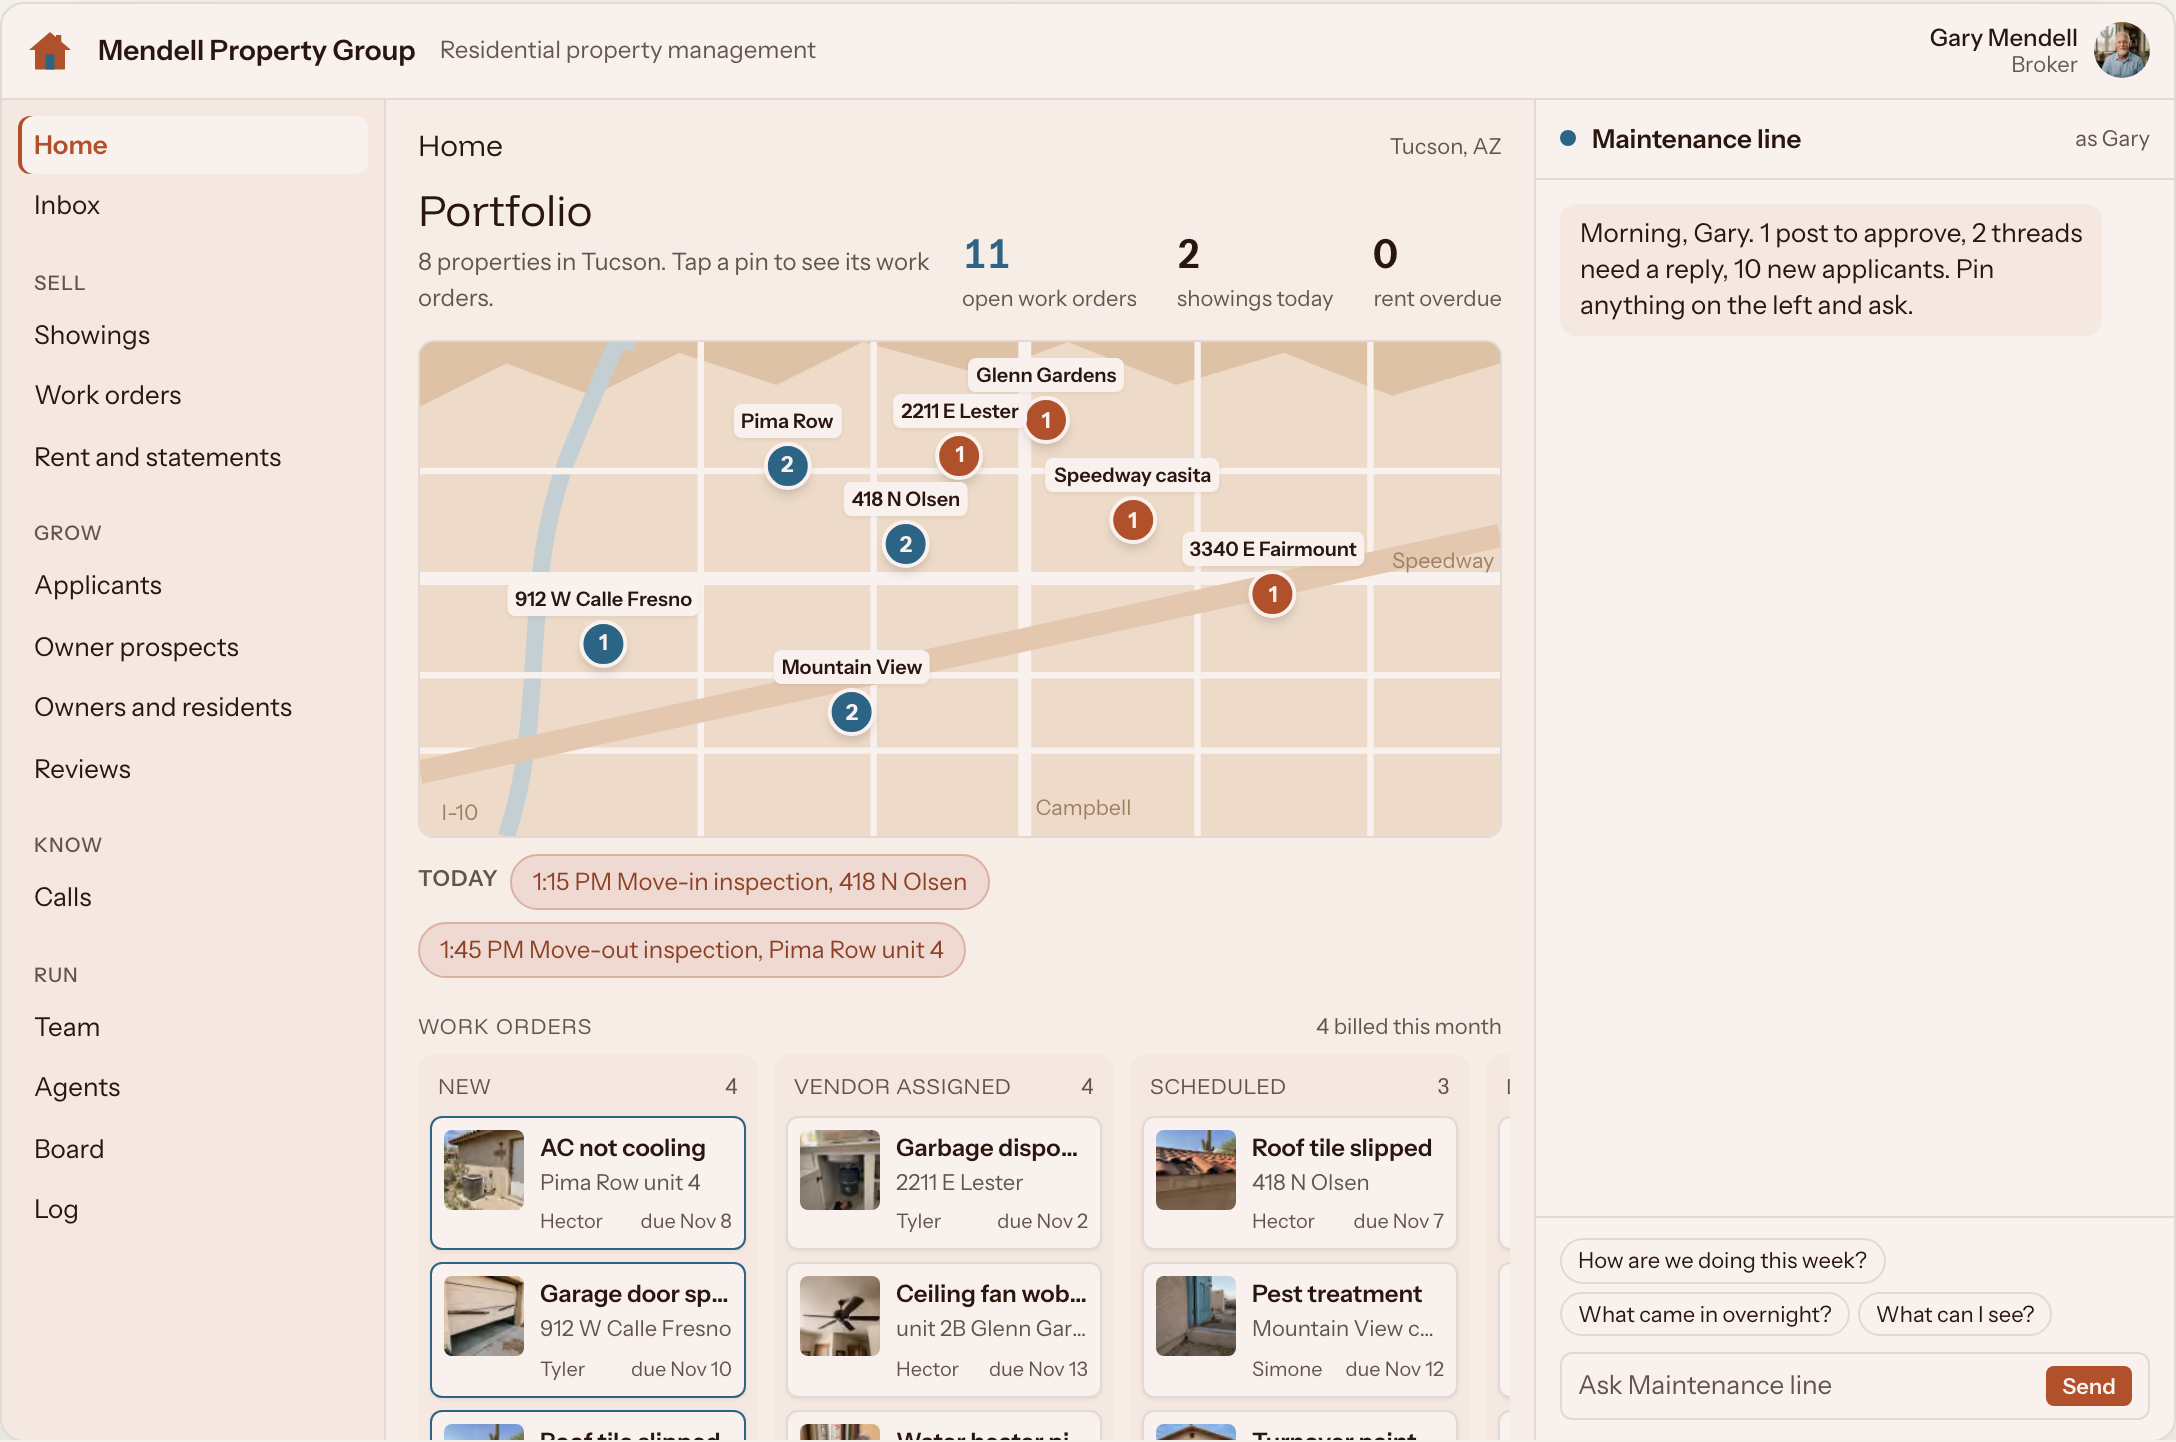
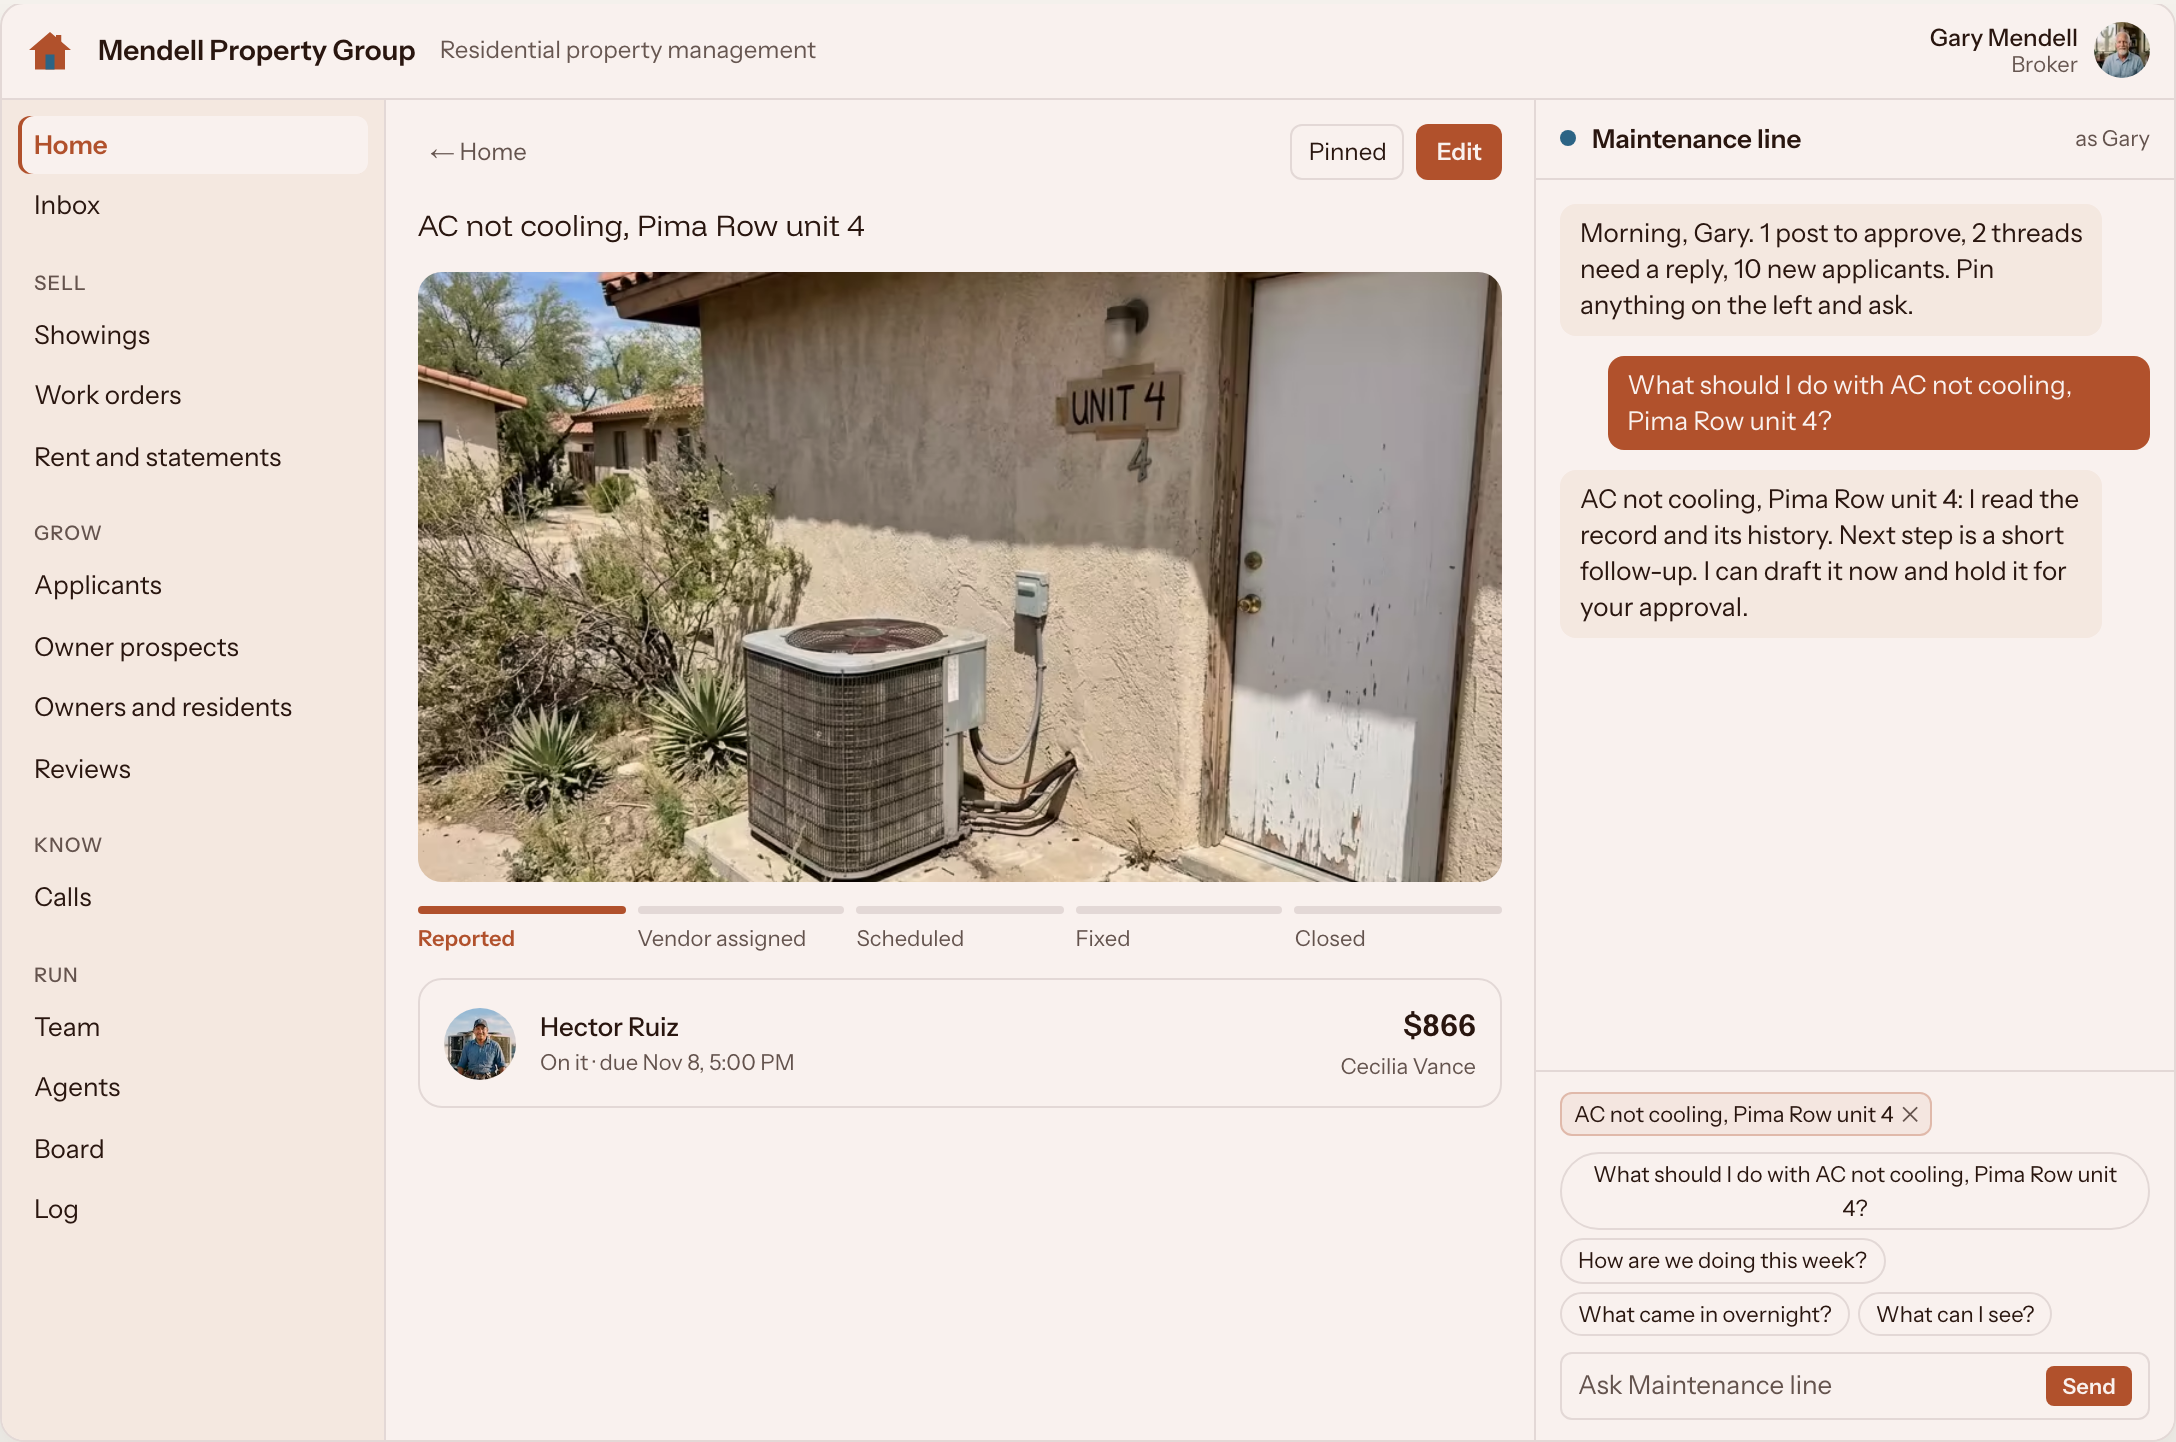
README: Quillback chat GIF full width, then four stills (light and dark alternating) with the chat in use

diff --git a/README.md b/README.md
@@ -8,18 +8,20 @@ This README is the instructions. If you are an agent and someone pointed you her
 
 ## What it looks like
 
-Same shell, same components, a different first screen for every business. Nobody runs a company from a list. The owner says what they want to see, and the agent builds it: a shop floor, a dock, a map, a room grid, a day book. These are the homes of eight companies in the live demo, the first four in light mode and the last four in dark. Both themes take their color from the business's own brand. The companies, people and numbers are made up. Almost every module behind them already runs in a real business.
+Same shell, same components, a different first screen for every business. Nobody runs a company from a list. The owner says what they want to see, and the agent builds it: a dock, a shop floor, a map, a room grid. The chat on the right is wired to the page: click anything to hand it to the agent, and the agent points back at what it is talking about.
+
+![Marine supply: the owner asks which boats are ready and they light up on the dock, pins one boat, and the agent drafts the owner a pickup text that waits for a yes](docs/screenshots/00-quillback-chat.gif)
+
+**Marine supply: The dock.** Ask which boats are ready and they light up on the dock. Click a boat to pin it, and the agent drafts the owner a pickup text that waits for your yes.
 
 | | |
 |---|---|
-| ![Property management home: a map of Tucson with every property pinned, work orders by stage](docs/screenshots/01-mendell-home.png) | ![Boutique hotel home: every room on three floors by status, arrivals and events](docs/screenshots/02-wexmoor-home.png) |
-| **Property management: Portfolio.** Every property on a map, open work orders pinned to it. | **Boutique hotel: Tonight.** Every room on three floors: who is in, who is arriving, what housekeeping turns next. |
-| ![Montessori school home: the week's tours and conferences, families on their way in](docs/screenshots/03-larkhaven-home.png) | ![Vet practice home: the day book across three clinics, one column per vet](docs/screenshots/04-kettle-home.png) |
-| **Private school: This week.** Tours, classroom visits and conferences, and every family on its way in. | **Vet practice: Monday.** The day book across three clinics, one column per vet. |
-| ![Machine shop home in dark mode: every spindle live with its job, POs by stage](docs/screenshots/05-lindqvist-home-dark.png) | ![Freight brokerage home in dark mode: live loads on a lane map out of Des Moines, then by delivery date](docs/screenshots/06-fenwright-home-dark.png) |
-| **Machine shop: Shop floor.** Every spindle live, the job on it, the POs behind them. | **Freight brokerage: Lanes this week.** Every live load on a map, then on a timeline by delivery date. |
-| ![Marine supply home in dark mode: the service dock slip by slip, and the parts counter](docs/screenshots/07-quillback-home-dark.png) | ![Climbing gym home in dark mode: every wall's classes today and the social feed waiting for a yes](docs/screenshots/08-talus-home-dark.png) |
-| **Marine supply: The dock.** Every slip with its boat and repair, and the parts counter, lowest stock first. | **Climbing gym: Monday on the walls.** Every wall and class, and the posts waiting for a yes. |
+| ![Property management: a work order with its photo, pinned to the chat, the agent's next step on the right](docs/screenshots/01-mendell-home.png) | ![Machine shop in dark mode: a work order pinned to the chat with the agent answering](docs/screenshots/02-lindqvist-home-dark.png) |
+| **Property management.** A work order opened from the map, pinned, and the agent's next step. | **Machine shop, dark mode.** A job off the shop floor, pinned and asked about. |
+| ![Climbing gym in dark mode: a social post waiting for approval, pinned to the chat](docs/screenshots/03-talus-home-dark.png) | ![Boutique hotel: tonight's arrival pinned to the chat with the concierge answering](docs/screenshots/04-wexmoor-home.png) |
+| **Climbing gym, dark mode.** A post waiting for a yes, handed to the front desk agent. | **Boutique hotel.** Tonight's arrival, pinned to the concierge. |
+
+Both themes take their color from the business's own brand. The companies, people and numbers are made up. Almost every module behind them already runs in a real business.
 
 ---
 
